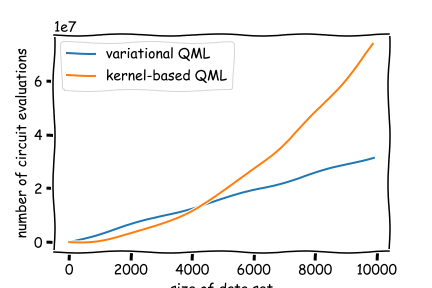
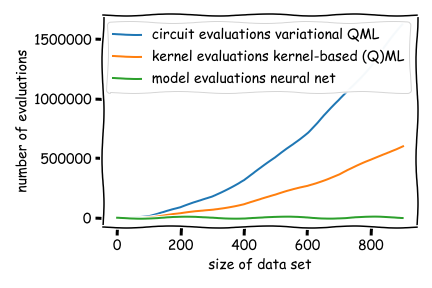
rewrite findings

Changed region(s): [[0.0301, 0.0312, 0.9931, 1.0], [0.963, 0.5938, 0.9931, 0.7812]]

diff --git a/demonstrations/tutorial_kernel_based_training.py b/demonstrations/tutorial_kernel_based_training.py
@@ -32,13 +32,12 @@ quantum circuit trained via stochastic gradient descent using
 PyTorch.
 
 The goal of the demo is to estimate the circuit evaluations needed in
-both approaches. We will see that while kernel-based training has a much
-worse overall scaling, in the small-data regime of near-term
-quantum computing it is considerably more efficient than variational training. 
+both approaches. We will see that while kernel-based training famously scales much worse than 
+neural networks, is has a better scaling than variational circuits!  
 
 .. figure::  ../demonstrations/kernel_based_training/scaling.png 
        :align: center
-       :scale: 60%
+       :scale: 100%
        :alt: Scaling of kernel-based vs. variational learning
        
 """
@@ -446,7 +445,7 @@ dev_var.num_executions
 #
 
 
-def circuit_evals_variational(n_data, n_params, evals_per_derivative, split, n_steps, batch_size):
+def circuit_evals_variational(n_data, n_params, n_steps, evals_per_derivative, split,  batch_size):
     """
     Compute how many circuit evaluations are needed for variational training.
     """
@@ -454,7 +453,7 @@ def circuit_evals_variational(n_data, n_params, evals_per_derivative, split, n_s
     M = int(np.ceil(0.75 * n_data))
     Mpred = n_data - M
 
-    n_training = n_params * steps * batch_size * evals_per_derivative
+    n_training = n_params * n_steps * batch_size * evals_per_derivative
     n_prediction = Mpred
 
     return n_training + n_prediction
@@ -463,59 +462,138 @@ def circuit_evals_variational(n_data, n_params, evals_per_derivative, split, n_s
 circuit_evals_variational(
     n_data=len(X),
     n_params=len(trained_params.flatten()),
+    n_steps=steps,
     evals_per_derivative=2,
     split=len(X_train) / len(X_test),
-    n_steps=steps,
     batch_size=batch_size,
 )
 
 
 ######################################################################
-# Which method scales better?
-# ==========================
+# It is important to note that while they are trained in a similar manner, 
+# the number of variational circuit evaluations differs from the number of 
+# neural network model evaluations in classical machine learning, which would be given by:
+#
+
+def model_evals_nn(n_data, n_params, n_steps, split,  batch_size):
+    """
+    Compute how many model evaluations are needed for neural network training.
+    """
+
+    M = int(np.ceil(0.75 * n_data))
+    Mpred = n_data - M
+
+    n_training = n_steps * batch_size
+    n_prediction = Mpred
+
+    return n_training + n_prediction
+    
+######################################################################
+# In each step of neural network training and due to the power of automatic differentiation, 
+# the backpropagation algorithm can compute a 
+# gradient for all parameters in (more-or-less) a single run. 
+# For all we know as of now, the no-cloning principle prevents variational circuits to use these tricks, 
+# which leads to `n_training` in `circuit_evals_variational` depend on the number of parameters, but not in 
+# `model_evals_nn`. 
+#
+# For the same example as used here, a neural network would therefore 
+# have much fewer model evaluations:
+#
+
+model_evals_nn(
+    n_data=len(X),
+    n_params=len(trained_params.flatten()),
+    n_steps=steps,
+    split=len(X_train) / len(X_test),
+    batch_size=batch_size,
+)
+   
+
+######################################################################
+# Which method scales best?
+# =========================
 #
 
 
 ######################################################################
-# In this small example, the kernel-based training trumps variational
+# In the example above, kernel-based training trumps variational
 # training in the number of circuit evaluations. But how does the overall scaling
-# look like? Let us make the assumption that the number of steps and the
-# number of parameters in variational circuit training grows linearly with
-# the size of the data set, and choose sensible defaults for all other
-# setting. This is what we get:
+# look like? 
+#
+# Of course, the answer to this question depends on how the variational model 
+# is set up, and we need to make a few assumptions: 
+#
+# 1. Even if we use single-batch stochastic gradient descent, in which every training step uses 
+#    exactly one training sample, we would want to see every training sample at least once on average. 
+#    Therefore, the **number of steps should scale linearly with the number of training data**. 
+#
+# 2. Modern neural networks often have many more parameters than training
+#    samples. But we do not know yet whether variational circuits really need that many parameters as well.
+#    We will therefore use two cases for comparison: 
+#
+#         a) the number of parameters grows linearly with the training data, or `n_params = M`, 
+#
+#         b) the number of parameters grows as the square root with the training data, or `n_params = np.sqrt(M)` 
+#
+# Note that compared to the example above with 112 training samples and 18 parameters, a) overestimates the scaling, while b) 
+# underestimates it.
 #
 
-variational_training = []
+
+######################################################################
+# This is how the three methods compare:
+#
+
+variational_training1 = []
+variational_training2 = []
 kernelbased_training = []
-x_axis = range(0, 10000, 100)
+nn_training = []
+x_axis = range(0, 2000, 100)
 for M in x_axis:
 
-    var = circuit_evals_variational(
-        n_data=M, n_params=M, evals_per_derivative=2, split=0.75, n_steps=M, batch_size=20
+    var1 = circuit_evals_variational(
+        n_data=M, n_params=M, n_steps=M,  evals_per_derivative=2, split=0.75, batch_size=1
     )
-    variational_training.append(var)
+    variational_training1.append(var1)
 
+    var2 = circuit_evals_variational(
+        n_data=M, n_params=round(np.sqrt(M)), n_steps=M,  evals_per_derivative=2, split=0.75, batch_size=1
+    )
+    variational_training2.append(var2)
+    
     kernel = circuit_evals_kernel(n_data=M, split=0.75)
     kernelbased_training.append(kernel)
+    
+    nn = model_evals_nn(
+        n_data=M, n_params=M, n_steps=M, split=0.75, batch_size=1
+    )
+    nn_training.append(nn)
 
 
-plt.plot(x_axis, variational_training, label="variational QML")
-plt.plot(x_axis, kernelbased_training, label="kernel-based QML")
+plt.plot(x_axis, nn_training, linestyle='--', label="neural net")
+plt.plot(x_axis, variational_training1, label="var. circuit (linear param scaling)")
+plt.plot(x_axis, variational_training2, label="var. circuit (srqt param scaling)")
+plt.plot(x_axis, kernelbased_training, label="(quantum) kernel")
 plt.xlabel("size of data set")
-plt.ylabel("number of circuit evaluations")
+plt.ylabel("number of evaluations")
 plt.legend()
+plt.tight_layout()
 plt.show()
 
 
+
 ######################################################################
-# Under the assumptions made, we can see that for data sets up to about
-# :math:`4000` samples, kernel-based training uses *fewer* circuit
-# evaluations to variational training. Only then the quadratic scaling of
-# kernel methods takes over.
+# Under the assumptions made, the relation between kernel-based 
+# and variational quantum machine learning depends on how many parameters the latter need: 
+# If variational circuits turn out to be as parameter-hungry as neural networks,
+# kernel-based training will consistently outperform it. 
+# However, if we find ways to train variational circuits with few parameters,
+# they can catch up with the good scaling neural networks get from backpropagation.   
 #
+# However, fault-tolerant quantum computers may change the picture significantly. 
 # As mentioned in `Schuld (2021) <https://arxiv.org/abs/2101.11020>`__, 
 # early results from the quantum machine learning literature show that
-# larger fault-tolerant quantum computers enable us in principle to reduce
-# the quadratic scaling to linear scaling, which may make kernel methods a
+# larger quantum computers enable us in principle to reduce
+# the quadratic scaling of kernel methods to linear scaling, which may make kernel methods a
 # serious alternative to neural networks for big data processing one day.
 #
